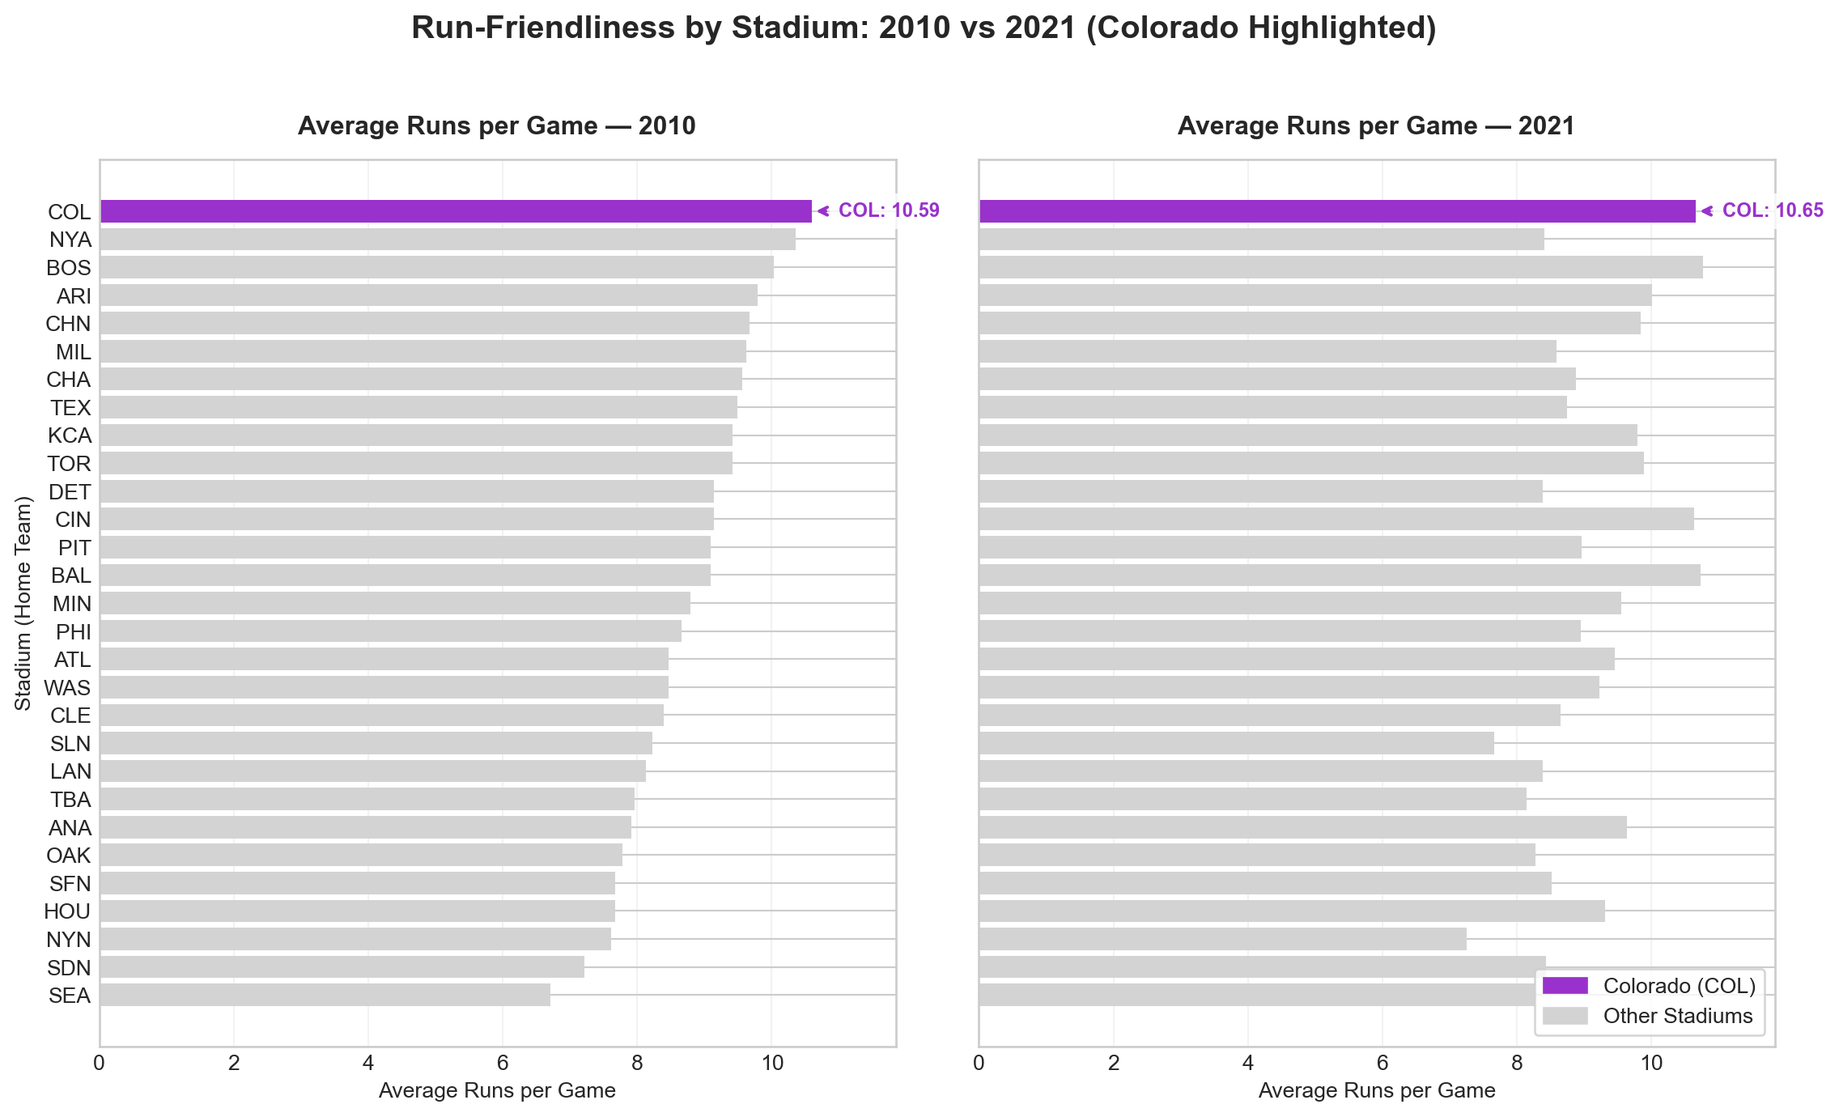
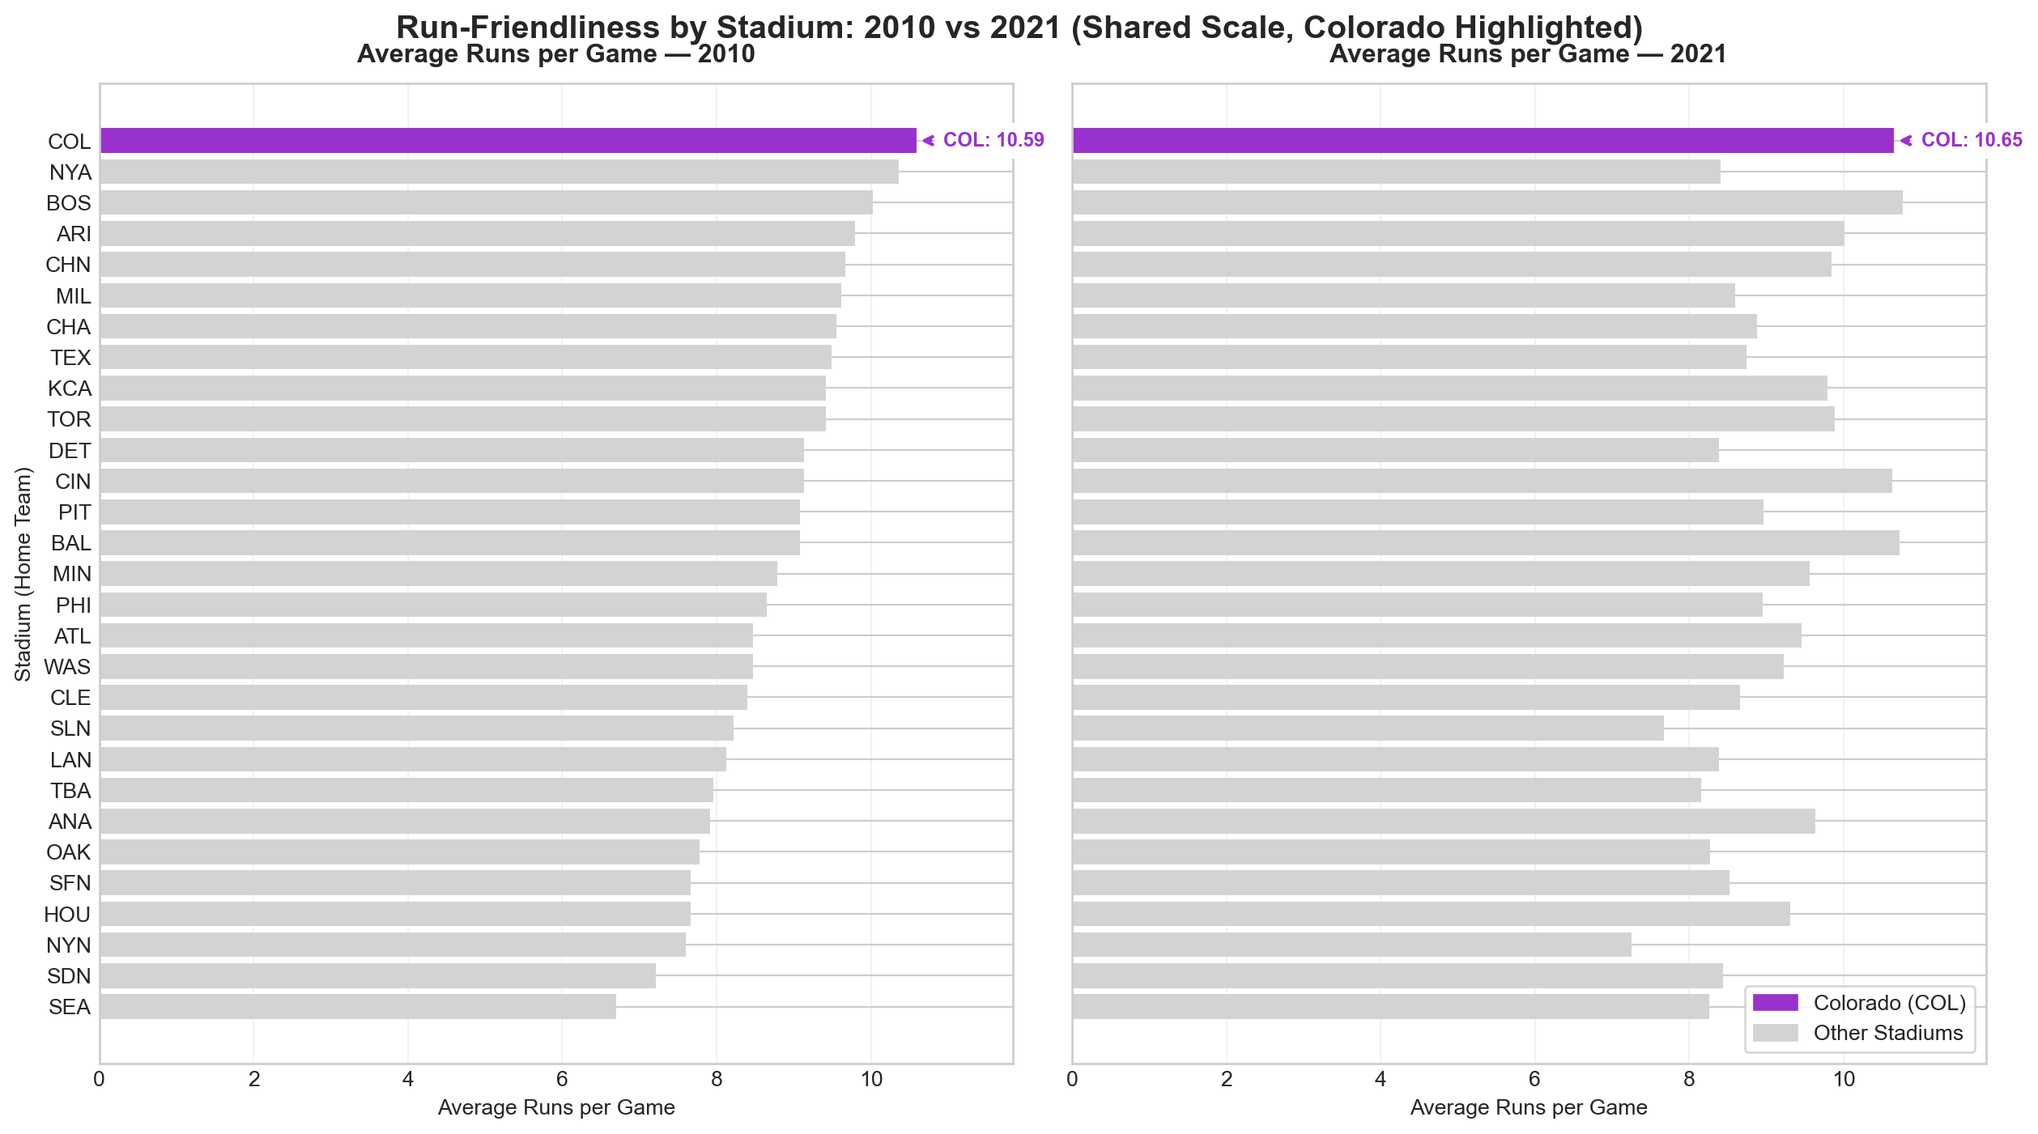
updates to index.qmd file

diff --git a/index.html b/index.html
@@ -384,20 +384,19 @@ Instead of analyzing thousands of rows, aggregation summarizes performance by st
 <h2 class="anchored" data-anchor-id="stage-4-formatting-for-your-audience">Stage 4: Formatting for Your Audience</h2>
 <p><strong>Mental Model:</strong> Polish your visualization for professional presentation.</p>
 <p>Let’s create a publication-ready visualization:</p>
-<div id="cell-stage-4-formatting" class="cell" data-execution_count="4">
+<div id="cell-stage-4-final" class="cell" data-execution_count="4">
 <div class="cell-output cell-output-display">
-<div>
+<div id="stage-4-final" class="quarto-figure quarto-figure-center anchored">
 <figure class="figure">
-<p><img src="index_files/figure-html/stage-4-formatting-output-1.png" id="stage-4-formatting" width="758" height="567" class="figure-img"></p>
+<p><img src="index_files/figure-html/stage-4-final-output-1.png" width="875" height="587" class="figure-img"></p>
+<figcaption>Average runs per game by stadium in 2010 (Colorado highlighted).</figcaption>
 </figure>
 </div>
 </div>
+</div>
+<div id="stage-4-summary" class="cell" data-execution_count="5">
 <div class="cell-output cell-output-stdout">
-<pre><code>
-Summary Statistics for 2010:
-Colorado (COL) average runs per game: 10.59
-League average runs per game: 8.77
-Colorado is 20.8% above league average</code></pre>
+<pre><code>Summary (2010): COL average runs/game = 8.47; league average = 8.77; COL is -3.4% above league average.</code></pre>
 </div>
 </div>
 <div class="callout callout-style-default callout-important callout-titled">
@@ -413,7 +412,7 @@ Colorado is 20.8% above league average</code></pre>
 <p><strong>Question 1: Professional Formatting</strong> - What elements make this visualization suitable for a business presentation?</p>
 <p><strong>Answer:</strong></p>
 <ul>
-<li><p><strong>What makes it business-ready:</strong></p>
+<li><strong>What makes it business-ready:</strong>
 <ul>
 <li><strong>Message title</strong> states the takeaway (not just “Bar chart”).</li>
 <li><strong>Clear axes</strong> with units: “Average Runs Per Game”.</li>
@@ -423,12 +422,11 @@ Colorado is 20.8% above league average</code></pre>
 <li><strong>Zero baseline</strong> on the x-axis to keep lengths honest.</li>
 <li><strong>Tidy labels</strong> (no long tick labels overlapping; horizontal bars for many categories).</li>
 </ul></li>
-<li><p>Is the annotation on the visualization helpful? Can you fix its placement?</p></li>
-<li><p><strong>Is the annotation helpful?</strong></p>
+<li><strong>Is the annotation on the visualization helpful? Can you fix its placement?</strong>
 <ul>
 <li>Yes. It draws attention to <strong>COL</strong> and reinforces the message with a numeric value.</li>
 </ul></li>
-<li><p><strong>How I’d fix/position the annotation:</strong></p>
+<li><strong>How I’d fix/position the annotation:</strong>
 <ul>
 <li><strong>Offset the text</strong> a bit to the right of the COL bar end (e.g., <code>xytext=(+0.4, 0)</code> in data coords).</li>
 <li><strong>Align vertically</strong> to the bar center (<code>va="center"</code>) and set a modest <strong>fontsize</strong>.</li>
@@ -446,104 +444,18 @@ Colorado is 20.8% above league average</code></pre>
 <h2 class="anchored" data-anchor-id="advanced-object-oriented-techniques">Advanced Object-Oriented Techniques</h2>
 <p><strong>Mental Model:</strong> Use object-oriented matplotlib to create complex, reusable visualizations.</p>
 <p>Let’s create a comprehensive comparison between 2010 and 2021:</p>
-<div id="cell-advanced-oo-techniques" class="cell" data-execution_count="5">
-<div class="code-copy-outer-scaffold"><div class="sourceCode cell-code" id="cb7"><pre class="sourceCode python code-with-copy"><code class="sourceCode python"><span id="cb7-1"><a href="#cb7-1" aria-hidden="true" tabindex="-1"></a><span class="co"># Advanced Object-Oriented Techniques</span></span>
-<span id="cb7-2"><a href="#cb7-2" aria-hidden="true" tabindex="-1"></a><span class="co"># Create a comprehensive comparison visualization</span></span>
-<span id="cb7-3"><a href="#cb7-3" aria-hidden="true" tabindex="-1"></a></span>
-<span id="cb7-4"><a href="#cb7-4" aria-hidden="true" tabindex="-1"></a><span class="co"># Prepare data for comparison</span></span>
-<span id="cb7-5"><a href="#cb7-5" aria-hidden="true" tabindex="-1"></a>comparison_data <span class="op">=</span> pd.merge(</span>
-<span id="cb7-6"><a href="#cb7-6" aria-hidden="true" tabindex="-1"></a>    avgDF_2010[[<span class="st">'home'</span>, <span class="st">'totalRuns'</span>]].rename(columns<span class="op">=</span>{<span class="st">'totalRuns'</span>: <span class="st">'runs_2010'</span>}),</span>
-<span id="cb7-7"><a href="#cb7-7" aria-hidden="true" tabindex="-1"></a>    avgDF_2021[[<span class="st">'home'</span>, <span class="st">'totalRuns'</span>]].rename(columns<span class="op">=</span>{<span class="st">'totalRuns'</span>: <span class="st">'runs_2021'</span>}),</span>
-<span id="cb7-8"><a href="#cb7-8" aria-hidden="true" tabindex="-1"></a>    on<span class="op">=</span><span class="st">'home'</span>, how<span class="op">=</span><span class="st">'inner'</span></span>
-<span id="cb7-9"><a href="#cb7-9" aria-hidden="true" tabindex="-1"></a>)</span>
-<span id="cb7-10"><a href="#cb7-10" aria-hidden="true" tabindex="-1"></a></span>
-<span id="cb7-11"><a href="#cb7-11" aria-hidden="true" tabindex="-1"></a><span class="co">## </span><span class="al">TODO</span><span class="co">: Create the visualization</span></span>
-<span id="cb7-12"><a href="#cb7-12" aria-hidden="true" tabindex="-1"></a></span>
-<span id="cb7-13"><a href="#cb7-13" aria-hidden="true" tabindex="-1"></a><span class="co">#| label: advanced-oo-comparison</span></span>
-<span id="cb7-14"><a href="#cb7-14" aria-hidden="true" tabindex="-1"></a><span class="co">#| echo: false</span></span>
-<span id="cb7-15"><a href="#cb7-15" aria-hidden="true" tabindex="-1"></a></span>
-<span id="cb7-16"><a href="#cb7-16" aria-hidden="true" tabindex="-1"></a><span class="co"># Build comparison data from the two tables prepared earlier</span></span>
-<span id="cb7-17"><a href="#cb7-17" aria-hidden="true" tabindex="-1"></a>comparison_data <span class="op">=</span> (</span>
-<span id="cb7-18"><a href="#cb7-18" aria-hidden="true" tabindex="-1"></a>    avgDF_2010[[<span class="st">'home'</span>, <span class="st">'totalRuns'</span>]].rename(columns<span class="op">=</span>{<span class="st">'totalRuns'</span>: <span class="st">'runs_2010'</span>})</span>
-<span id="cb7-19"><a href="#cb7-19" aria-hidden="true" tabindex="-1"></a>    .merge(</span>
-<span id="cb7-20"><a href="#cb7-20" aria-hidden="true" tabindex="-1"></a>        avgDF_2021[[<span class="st">'home'</span>, <span class="st">'totalRuns'</span>]].rename(columns<span class="op">=</span>{<span class="st">'totalRuns'</span>: <span class="st">'runs_2021'</span>}),</span>
-<span id="cb7-21"><a href="#cb7-21" aria-hidden="true" tabindex="-1"></a>        on<span class="op">=</span><span class="st">'home'</span>, how<span class="op">=</span><span class="st">'inner'</span></span>
-<span id="cb7-22"><a href="#cb7-22" aria-hidden="true" tabindex="-1"></a>    )</span>
-<span id="cb7-23"><a href="#cb7-23" aria-hidden="true" tabindex="-1"></a>)</span>
-<span id="cb7-24"><a href="#cb7-24" aria-hidden="true" tabindex="-1"></a></span>
-<span id="cb7-25"><a href="#cb7-25" aria-hidden="true" tabindex="-1"></a><span class="co"># Fix a single stadium order (sorted by 2010) so the two panels line up</span></span>
-<span id="cb7-26"><a href="#cb7-26" aria-hidden="true" tabindex="-1"></a>order <span class="op">=</span> (comparison_data</span>
-<span id="cb7-27"><a href="#cb7-27" aria-hidden="true" tabindex="-1"></a>         .sort_values(<span class="st">'runs_2010'</span>, ascending<span class="op">=</span><span class="va">True</span>)</span>
-<span id="cb7-28"><a href="#cb7-28" aria-hidden="true" tabindex="-1"></a>         .loc[:, <span class="st">'home'</span>]</span>
-<span id="cb7-29"><a href="#cb7-29" aria-hidden="true" tabindex="-1"></a>         .tolist())</span>
-<span id="cb7-30"><a href="#cb7-30" aria-hidden="true" tabindex="-1"></a></span>
-<span id="cb7-31"><a href="#cb7-31" aria-hidden="true" tabindex="-1"></a><span class="co"># Reorder for plotting</span></span>
-<span id="cb7-32"><a href="#cb7-32" aria-hidden="true" tabindex="-1"></a>comp_ord <span class="op">=</span> comparison_data.set_index(<span class="st">'home'</span>).loc[order].reset_index()</span>
-<span id="cb7-33"><a href="#cb7-33" aria-hidden="true" tabindex="-1"></a></span>
-<span id="cb7-34"><a href="#cb7-34" aria-hidden="true" tabindex="-1"></a><span class="co"># Colors (highlight COL)</span></span>
-<span id="cb7-35"><a href="#cb7-35" aria-hidden="true" tabindex="-1"></a>colors_2010 <span class="op">=</span> [<span class="st">"darkorchid"</span> <span class="cf">if</span> t <span class="op">==</span> <span class="st">"COL"</span> <span class="cf">else</span> <span class="st">"lightgrey"</span> <span class="cf">for</span> t <span class="kw">in</span> comp_ord[<span class="st">'home'</span>]]</span>
-<span id="cb7-36"><a href="#cb7-36" aria-hidden="true" tabindex="-1"></a>colors_2021 <span class="op">=</span> [<span class="st">"darkorchid"</span> <span class="cf">if</span> t <span class="op">==</span> <span class="st">"COL"</span> <span class="cf">else</span> <span class="st">"lightgrey"</span> <span class="cf">for</span> t <span class="kw">in</span> comp_ord[<span class="st">'home'</span>]]</span>
-<span id="cb7-37"><a href="#cb7-37" aria-hidden="true" tabindex="-1"></a></span>
-<span id="cb7-38"><a href="#cb7-38" aria-hidden="true" tabindex="-1"></a><span class="co"># Common x-limit across both panels for fair comparison</span></span>
-<span id="cb7-39"><a href="#cb7-39" aria-hidden="true" tabindex="-1"></a>xmax <span class="op">=</span> <span class="fl">1.10</span> <span class="op">*</span> <span class="bu">max</span>(comp_ord[<span class="st">'runs_2010'</span>].<span class="bu">max</span>(), comp_ord[<span class="st">'runs_2021'</span>].<span class="bu">max</span>())</span>
-<span id="cb7-40"><a href="#cb7-40" aria-hidden="true" tabindex="-1"></a></span>
-<span id="cb7-41"><a href="#cb7-41" aria-hidden="true" tabindex="-1"></a><span class="co"># Create the two-panel figure (Object-Oriented Matplotlib)</span></span>
-<span id="cb7-42"><a href="#cb7-42" aria-hidden="true" tabindex="-1"></a>fig, (ax1, ax2) <span class="op">=</span> plt.subplots(<span class="dv">1</span>, <span class="dv">2</span>, figsize<span class="op">=</span>(<span class="dv">12</span>, <span class="dv">7</span>), sharey<span class="op">=</span><span class="va">True</span>)</span>
-<span id="cb7-43"><a href="#cb7-43" aria-hidden="true" tabindex="-1"></a></span>
-<span id="cb7-44"><a href="#cb7-44" aria-hidden="true" tabindex="-1"></a><span class="co"># Left panel: 2010</span></span>
-<span id="cb7-45"><a href="#cb7-45" aria-hidden="true" tabindex="-1"></a>ax1.barh(comp_ord[<span class="st">'home'</span>], comp_ord[<span class="st">'runs_2010'</span>], color<span class="op">=</span>colors_2010)</span>
-<span id="cb7-46"><a href="#cb7-46" aria-hidden="true" tabindex="-1"></a>ax1.set_title(<span class="st">"Average Runs per Game — 2010"</span>, pad<span class="op">=</span><span class="dv">12</span>, fontweight<span class="op">=</span><span class="st">"bold"</span>)</span>
-<span id="cb7-47"><a href="#cb7-47" aria-hidden="true" tabindex="-1"></a>ax1.set_xlabel(<span class="st">"Average Runs per Game"</span>)</span>
-<span id="cb7-48"><a href="#cb7-48" aria-hidden="true" tabindex="-1"></a>ax1.set_ylabel(<span class="st">"Stadium (Home Team)"</span>)</span>
-<span id="cb7-49"><a href="#cb7-49" aria-hidden="true" tabindex="-1"></a>ax1.set_xlim(<span class="dv">0</span>, xmax)</span>
-<span id="cb7-50"><a href="#cb7-50" aria-hidden="true" tabindex="-1"></a>ax1.grid(<span class="va">True</span>, axis<span class="op">=</span><span class="st">'x'</span>, alpha<span class="op">=</span><span class="fl">0.25</span>)</span>
-<span id="cb7-51"><a href="#cb7-51" aria-hidden="true" tabindex="-1"></a></span>
-<span id="cb7-52"><a href="#cb7-52" aria-hidden="true" tabindex="-1"></a><span class="co"># Right panel: 2021</span></span>
-<span id="cb7-53"><a href="#cb7-53" aria-hidden="true" tabindex="-1"></a>ax2.barh(comp_ord[<span class="st">'home'</span>], comp_ord[<span class="st">'runs_2021'</span>], color<span class="op">=</span>colors_2021)</span>
-<span id="cb7-54"><a href="#cb7-54" aria-hidden="true" tabindex="-1"></a>ax2.set_title(<span class="st">"Average Runs per Game — 2021"</span>, pad<span class="op">=</span><span class="dv">12</span>, fontweight<span class="op">=</span><span class="st">"bold"</span>)</span>
-<span id="cb7-55"><a href="#cb7-55" aria-hidden="true" tabindex="-1"></a>ax2.set_xlabel(<span class="st">"Average Runs per Game"</span>)</span>
-<span id="cb7-56"><a href="#cb7-56" aria-hidden="true" tabindex="-1"></a>ax2.set_xlim(<span class="dv">0</span>, xmax)</span>
-<span id="cb7-57"><a href="#cb7-57" aria-hidden="true" tabindex="-1"></a>ax2.grid(<span class="va">True</span>, axis<span class="op">=</span><span class="st">'x'</span>, alpha<span class="op">=</span><span class="fl">0.25</span>)</span>
-<span id="cb7-58"><a href="#cb7-58" aria-hidden="true" tabindex="-1"></a></span>
-<span id="cb7-59"><a href="#cb7-59" aria-hidden="true" tabindex="-1"></a><span class="co"># Legend (one shared)</span></span>
-<span id="cb7-60"><a href="#cb7-60" aria-hidden="true" tabindex="-1"></a>col_patch <span class="op">=</span> plt.Rectangle((<span class="dv">0</span>, <span class="dv">0</span>), <span class="dv">1</span>, <span class="dv">1</span>, color<span class="op">=</span><span class="st">"darkorchid"</span>, label<span class="op">=</span><span class="st">"Colorado (COL)"</span>)</span>
-<span id="cb7-61"><a href="#cb7-61" aria-hidden="true" tabindex="-1"></a>oth_patch <span class="op">=</span> plt.Rectangle((<span class="dv">0</span>, <span class="dv">0</span>), <span class="dv">1</span>, <span class="dv">1</span>, color<span class="op">=</span><span class="st">"lightgrey"</span>, label<span class="op">=</span><span class="st">"Other Stadiums"</span>)</span>
-<span id="cb7-62"><a href="#cb7-62" aria-hidden="true" tabindex="-1"></a>ax2.legend(handles<span class="op">=</span>[col_patch, oth_patch], loc<span class="op">=</span><span class="st">"lower right"</span>, frameon<span class="op">=</span><span class="va">True</span>)</span>
-<span id="cb7-63"><a href="#cb7-63" aria-hidden="true" tabindex="-1"></a></span>
-<span id="cb7-64"><a href="#cb7-64" aria-hidden="true" tabindex="-1"></a><span class="co"># Annotate COL in both panels (if present)</span></span>
-<span id="cb7-65"><a href="#cb7-65" aria-hidden="true" tabindex="-1"></a><span class="cf">if</span> <span class="st">"COL"</span> <span class="kw">in</span> comp_ord[<span class="st">'home'</span>].values:</span>
-<span id="cb7-66"><a href="#cb7-66" aria-hidden="true" tabindex="-1"></a>    yidx <span class="op">=</span> comp_ord.index[comp_ord[<span class="st">'home'</span>] <span class="op">==</span> <span class="st">"COL"</span>][<span class="dv">0</span>]</span>
-<span id="cb7-67"><a href="#cb7-67" aria-hidden="true" tabindex="-1"></a></span>
-<span id="cb7-68"><a href="#cb7-68" aria-hidden="true" tabindex="-1"></a>    <span class="co"># 2010 annotation</span></span>
-<span id="cb7-69"><a href="#cb7-69" aria-hidden="true" tabindex="-1"></a>    x2010 <span class="op">=</span> comp_ord.loc[yidx, <span class="st">'runs_2010'</span>]</span>
-<span id="cb7-70"><a href="#cb7-70" aria-hidden="true" tabindex="-1"></a>    ax1.annotate(<span class="ss">f"COL: </span><span class="sc">{</span>x2010<span class="sc">:.2f}</span><span class="ss">"</span>,</span>
-<span id="cb7-71"><a href="#cb7-71" aria-hidden="true" tabindex="-1"></a>                 xy<span class="op">=</span>(x2010, yidx),</span>
-<span id="cb7-72"><a href="#cb7-72" aria-hidden="true" tabindex="-1"></a>                 xytext<span class="op">=</span>(x2010 <span class="op">+</span> <span class="fl">0.4</span>, yidx),</span>
-<span id="cb7-73"><a href="#cb7-73" aria-hidden="true" tabindex="-1"></a>                 va<span class="op">=</span><span class="st">"center"</span>,</span>
-<span id="cb7-74"><a href="#cb7-74" aria-hidden="true" tabindex="-1"></a>                 bbox<span class="op">=</span><span class="bu">dict</span>(facecolor<span class="op">=</span><span class="st">"white"</span>, alpha<span class="op">=</span><span class="fl">0.8</span>, edgecolor<span class="op">=</span><span class="st">"none"</span>),</span>
-<span id="cb7-75"><a href="#cb7-75" aria-hidden="true" tabindex="-1"></a>                 arrowprops<span class="op">=</span><span class="bu">dict</span>(arrowstyle<span class="op">=</span><span class="st">"-&gt;"</span>, color<span class="op">=</span><span class="st">"darkorchid"</span>, lw<span class="op">=</span><span class="fl">1.5</span>),</span>
-<span id="cb7-76"><a href="#cb7-76" aria-hidden="true" tabindex="-1"></a>                 color<span class="op">=</span><span class="st">"darkorchid"</span>, fontweight<span class="op">=</span><span class="st">"bold"</span>, fontsize<span class="op">=</span><span class="dv">9</span>)</span>
-<span id="cb7-77"><a href="#cb7-77" aria-hidden="true" tabindex="-1"></a></span>
-<span id="cb7-78"><a href="#cb7-78" aria-hidden="true" tabindex="-1"></a>    <span class="co"># 2021 annotation</span></span>
-<span id="cb7-79"><a href="#cb7-79" aria-hidden="true" tabindex="-1"></a>    x2021 <span class="op">=</span> comp_ord.loc[yidx, <span class="st">'runs_2021'</span>]</span>
-<span id="cb7-80"><a href="#cb7-80" aria-hidden="true" tabindex="-1"></a>    ax2.annotate(<span class="ss">f"COL: </span><span class="sc">{</span>x2021<span class="sc">:.2f}</span><span class="ss">"</span>,</span>
-<span id="cb7-81"><a href="#cb7-81" aria-hidden="true" tabindex="-1"></a>                 xy<span class="op">=</span>(x2021, yidx),</span>
-<span id="cb7-82"><a href="#cb7-82" aria-hidden="true" tabindex="-1"></a>                 xytext<span class="op">=</span>(x2021 <span class="op">+</span> <span class="fl">0.4</span>, yidx),</span>
-<span id="cb7-83"><a href="#cb7-83" aria-hidden="true" tabindex="-1"></a>                 va<span class="op">=</span><span class="st">"center"</span>,</span>
-<span id="cb7-84"><a href="#cb7-84" aria-hidden="true" tabindex="-1"></a>                 bbox<span class="op">=</span><span class="bu">dict</span>(facecolor<span class="op">=</span><span class="st">"white"</span>, alpha<span class="op">=</span><span class="fl">0.8</span>, edgecolor<span class="op">=</span><span class="st">"none"</span>),</span>
-<span id="cb7-85"><a href="#cb7-85" aria-hidden="true" tabindex="-1"></a>                 arrowprops<span class="op">=</span><span class="bu">dict</span>(arrowstyle<span class="op">=</span><span class="st">"-&gt;"</span>, color<span class="op">=</span><span class="st">"darkorchid"</span>, lw<span class="op">=</span><span class="fl">1.5</span>),</span>
-<span id="cb7-86"><a href="#cb7-86" aria-hidden="true" tabindex="-1"></a>                 color<span class="op">=</span><span class="st">"darkorchid"</span>, fontweight<span class="op">=</span><span class="st">"bold"</span>, fontsize<span class="op">=</span><span class="dv">9</span>)</span>
-<span id="cb7-87"><a href="#cb7-87" aria-hidden="true" tabindex="-1"></a></span>
-<span id="cb7-88"><a href="#cb7-88" aria-hidden="true" tabindex="-1"></a>plt.suptitle(<span class="st">"Run-Friendliness by Stadium: 2010 vs 2021 (Colorado Highlighted)"</span>,</span>
-<span id="cb7-89"><a href="#cb7-89" aria-hidden="true" tabindex="-1"></a>             y<span class="op">=</span><span class="fl">1.02</span>, fontsize<span class="op">=</span><span class="dv">15</span>, fontweight<span class="op">=</span><span class="st">"bold"</span>)</span>
-<span id="cb7-90"><a href="#cb7-90" aria-hidden="true" tabindex="-1"></a>plt.tight_layout()</span>
-<span id="cb7-91"><a href="#cb7-91" aria-hidden="true" tabindex="-1"></a>plt.show()</span></code></pre></div><button title="Copy to Clipboard" class="code-copy-button"><i class="bi"></i></button></div>
+<div id="cell-advanced-oo-techniques" class="cell" data-execution_count="6">
 <div class="cell-output cell-output-display">
 <div>
 <figure class="figure">
-<p><img src="index_files/figure-html/advanced-oo-techniques-output-1.png" id="advanced-oo-techniques" width="1136" height="690" class="figure-img"></p>
+<p><img src="index_files/figure-html/advanced-oo-techniques-output-1.png" id="advanced-oo-techniques" width="1259" height="701" class="figure-img"></p>
 </figure>
 </div>
+</div>
+</div>
+<div id="stage-5-summary" class="cell" data-execution_count="7">
+<div class="cell-output cell-output-stdout">
+<pre><code>Comparison summary: In 2010, COL ranks #1 at 10.59 runs/game; in 2021, COL ranks #3 at 10.65 runs/game (shared scale).</code></pre>
 </div>
 </div>
 <div class="callout callout-style-default callout-important callout-titled">
